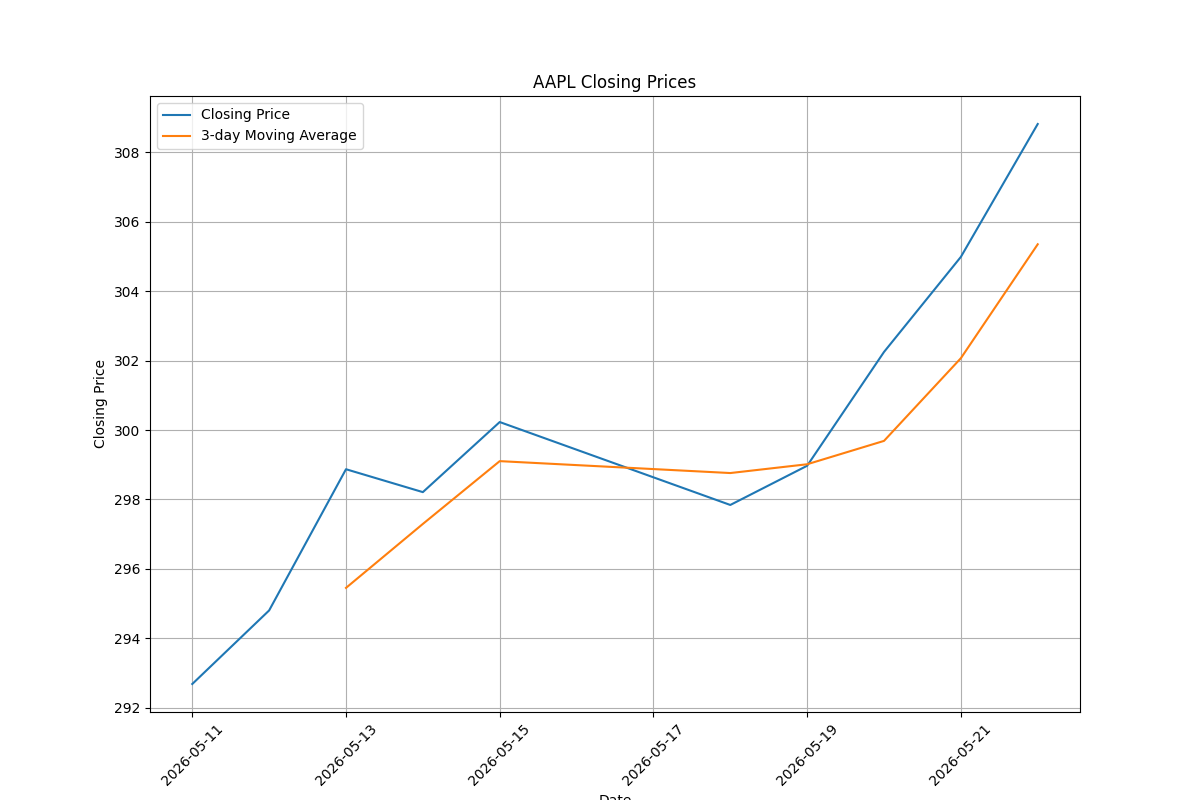
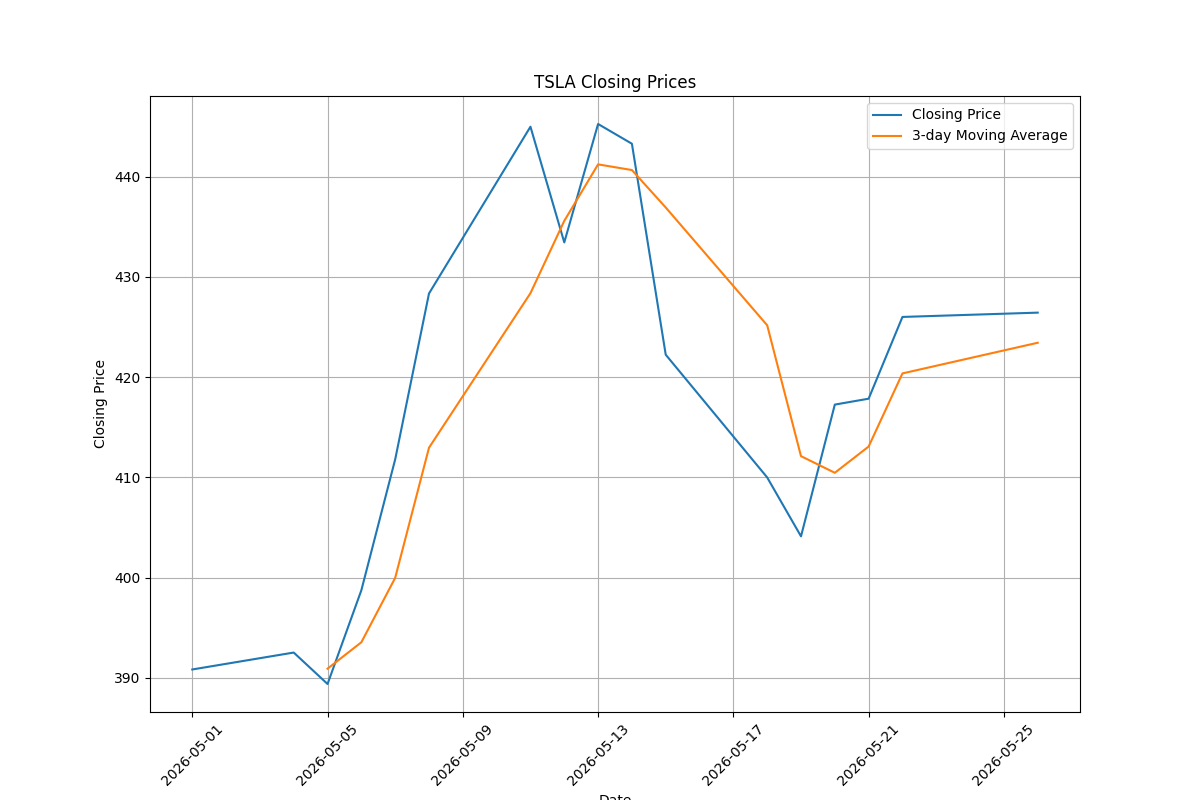
Added Flask stock tracker web app

diff --git a/templates/result.html b/templates/result.html
@@ -1,0 +1,8 @@
+<h1>Stock Analysis Results</h1>
+
+<p>Latest Price: ${{ "%.2f"|format(latest_close) }}</p>
+<p>Percentage Change: {{ per_sign}}{{ "%.2f"|format(perchange) }}%</p>
+<p>Average Close: ${{"%.2f"|format(average_close) }}</p>
+<p>Highest Close: ${{ "%.2f"|format(max_closing_price) }}</p>
+<p>Lowest Close: ${{ "%.2f"|format(min_closing_price) }}</p>
+<p>Market Status: {{ status }}</p>

diff --git a/templates/index.html b/templates/index.html
@@ -1,0 +1,6 @@
+<h1>Stock Tracker</h1>
+<form method="post">
+    <input type="text" name="ticker" placeholder="Enter Stock Ticker">
+    <input type="number" name="days" placeholder="Enter Number Of Days">
+    <button type="submit">Analyse</button>
+</form>

diff --git a/main.py b/main.py
@@ -1,50 +1,60 @@
 import yfinance as yf
 import matplotlib.pyplot as plt
-ticker=input("Enter stock ticker: ").upper()
-stock=yf.Ticker(ticker)
-days=input("Enter Number of Days: ")
-period=days+"d"
-data=stock.history(period=period)
-latest_open=data["Open"].iloc[-1]
-latest_close=data["Close"].iloc[-1]
-perchange=((latest_close-latest_open)/latest_open)*100
-per_sign=""
-if perchange>0:
-    per_sign="+"
-else:
+def analyse(ticker,days):
+
+    stock=yf.Ticker(ticker)
+
+    period=days+"d"
+    data=stock.history(period=period)
+    latest_open=data["Open"].iloc[-1]
+    latest_close=data["Close"].iloc[-1]
+    perchange=((latest_close-latest_open)/latest_open)*100
     per_sign=""
-moving_average=data["Close"].rolling(window=3).mean()
-print("===== STOCK ANALYSIS =====")
-print("--------------------------")
-print(f"\nTicker: {ticker}\n")
-print("--- PRICE DATA ---")
-print(f"Latest Price: ${latest_close:.2f}")
-print("Daily Change: "+per_sign+f"{perchange:.2f}%\n")
-print("--- ANALYTICS ---")
-average_close=data["Close"].mean()
-print(f"Average Closing Price: ${average_close:.2f}")
-max_closing_price=data["Close"].max()
-min_closing_price=data["Close"].min()
-print(f"Highest Closing Price: ${max_closing_price:.2f}")
-print(f"Lowest Closing Price: ${min_closing_price:.2f}")
-status=""
-if perchange>0:
-    status="Bullish"
-elif perchange<0:
-    status="Bearish"
-else:
-    status="No Change"
-print(f"\nMarket Status: {status}")
-plt.figure(figsize=(12,8))
-plt.grid()
-plt.plot(data.index,data["Close"],label="Closing Price")
-plt.plot(data.index,moving_average,label="3-day Moving Average")
-plt.legend()
-plt.title(f"{ticker} Closing Prices")
-plt.xlabel("Date")
-plt.xticks(rotation=45)
-plt.ylabel("Closing Price")
-plt.savefig("stock_chart.png")
+    if perchange>0:
+        per_sign="+"
+    else:
+        per_sign=""
+    moving_average=data["Close"].rolling(window=3).mean()
+
+    average_close=data["Close"].mean()
+
+    max_closing_price=data["Close"].max()
+    min_closing_price=data["Close"].min()
+
+    status=""
+    if perchange>0:
+        status="Bullish"
+    elif perchange<0:
+        status="Bearish"
+    else:
+        status="No Change"
+    
+    plot_graph(data,ticker,moving_average)
+    
+    return  latest_close, perchange,per_sign, average_close, max_closing_price, min_closing_price, status
+        
+def plot_graph(data,ticker,moving_average):
+    plt.figure(figsize=(12,8))
+    plt.grid()
+    plt.plot(data.index,data["Close"],label="Closing Price")
+    plt.plot(data.index,moving_average,label="3-day Moving Average")
+    plt.legend()
+    plt.title(f"{ticker} Closing Prices")
+    plt.xlabel("Date")
+    plt.xticks(rotation=45)
+    plt.ylabel("Closing Price")
+    plt.savefig("stock_chart.png")
+    plt.close()
+
+    
+
+    
+                
+
+
+
+    
+
 
 
 

diff --git a/app.py b/app.py
@@ -1,0 +1,27 @@
+from flask import Flask,render_template,request
+from main import analyse
+app=Flask(__name__)
+
[email redacted]("/",methods=["GET","POST"])
+def home():
+    if request.method=="POST":
+        ticker=request.form["ticker"]
+        days=request.form["days"]
+        latest_close, perchange,per_sign, average_close, max_closing_price, min_closing_price, status=analyse(ticker,days)
+        return render_template(
+        "result.html",
+        latest_close=latest_close,
+        perchange=perchange,
+        per_sign=per_sign,
+        average_close=average_close,
+        max_closing_price=max_closing_price,
+        min_closing_price=min_closing_price,
+        status=status
+        )
+        
+
+    
+        
+
+    return render_template("index.html")
+app.run()